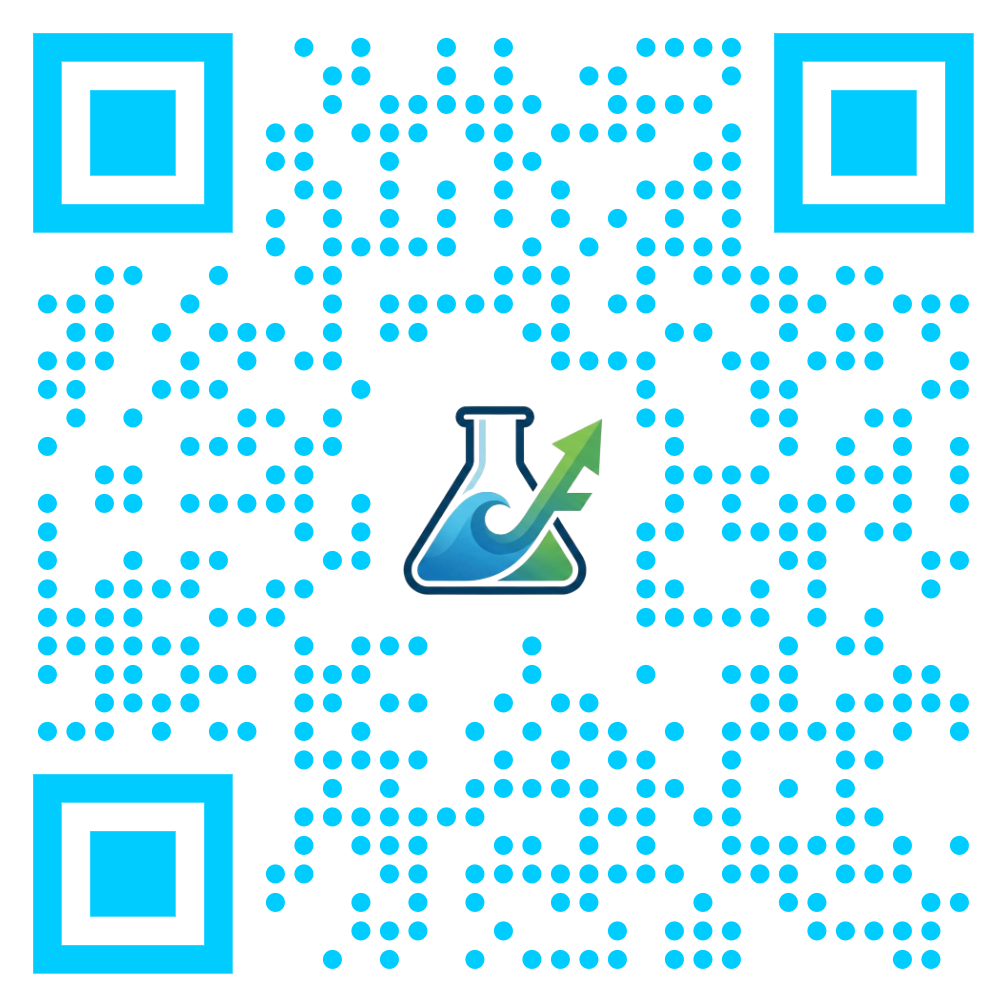
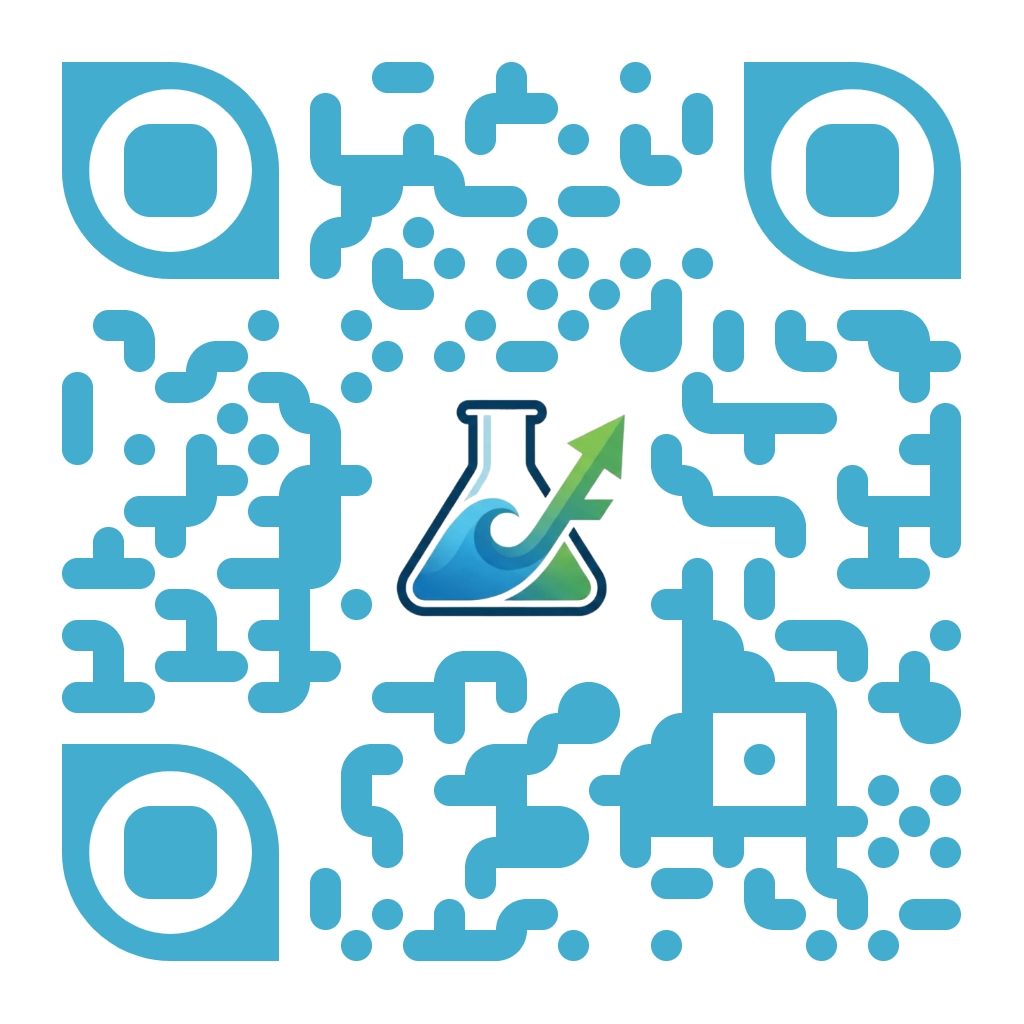
docs: update README for the live Render deployment
- refresh the live demo / API links (new Render URLs) and the QR code
- document the Postgres internal URL format for DATABASE_URL, with the
  password masked and a warning never to commit it
- fix ALLOWED_HOSTS in the env var table: bare hostnames, no https:// scheme
- update the repository file tree with the deployment files
  (render.yaml, build.sh, Procfile, .python-version), the
  ensure_demo_user management command and the new frontend files
- tech stack: PostgreSQL in production (SQLite locally) + Render row
- local setup: pip install -r requirements.txt and ensure_demo_user
- API reference: document /api/health/ and the root banner
- note that Render appends a random suffix to service names

diff --git a/README.md b/README.md
@@ -1,5 +1,5 @@
 # Chem Flow Monitor
-**[🔴 Live Demo](https://chem-flow-monitor.onrender.com/)** | **[📄 API Docs](https://chem-flow-backend.onrender.com/api/datasets/history/)** | **[📄 Project Documentation](https://docs.google.com/document/d/1sbKwdR0MgMHTLUGTTjjW1WPOu5JB55w-su5mencRrjU/edit?usp=sharing)**
+**[🔴 Live Demo](https://chem-flow-monitor-rues.onrender.com/)** | **[📄 API Docs](https://chem-flow-backend-lxih.onrender.com/api/datasets/history/)** | **[📄 Project Documentation](https://docs.google.com/document/d/1sbKwdR0MgMHTLUGTTjjW1WPOu5JB55w-su5mencRrjU/edit?usp=sharing)**
 
 **Username:** `demo`
 **Password:** `demo12345`
@@ -34,10 +34,11 @@ The application solves the problem of analyzing batch CSV exports from industria
 
 | Component | Technology | Description |
 | :--- | :--- | :--- |
-| **Backend** | Python, Django, DRF | REST API, Data Processing (Pandas), SQLite storage |
+| **Backend** | Python, Django, DRF | REST API, Data Processing (Pandas), PostgreSQL storage (SQLite locally) |
 | **Web Frontend** | React.js, Chart.js | Responsive web dashboard |
 | **Desktop Frontend** | Python, PyQt5, Matplotlib | Native desktop GUI |
 | **Data Processing** | Pandas | CSV parsing and statistical computation |
+| **Deployment** | Render.com | Blueprint (`render.yaml`): Django web service + React static site + Postgres |
 
 ##  Repository Structure
 
@@ -49,14 +50,19 @@ The application solves the problem of analyzing batch CSV exports from industria
 │   ├── config/                      # Django configuration
 │   │   ├── __init__.py
 │   │   ├── asgi.py                  # ASGI config
-│   │   ├── settings.py              # Django settings
+│   │   ├── settings.py              # Django settings (env driven)
 │   │   ├── urls.py                  # Root URL configuration
 │   │   └── wsgi.py                  # WSGI config
 │   ├── create_demo_user.py          # Script to create demo user
-│   ├── equipment/                  # Main Django app
+│   ├── equipment/                   # Main Django app
 │   │   ├── __init__.py
 │   │   ├── admin.py                 # Django admin configuration
 │   │   ├── apps.py                  # App configuration
+│   │   ├── management/              # Custom management commands
+│   │   │   ├── __init__.py
+│   │   │   └── commands/
+│   │   │       ├── __init__.py
+│   │   │       └── ensure_demo_user.py  # Create/repair the demo account
 │   │   ├── migrations/              # Database migrations
 │   │   │   ├── 0001_initial.py
 │   │   │   └── __init__.py
@@ -83,6 +89,7 @@ The application solves the problem of analyzing batch CSV exports from industria
 │   ├── package.json                 # Node.js dependencies
 │   ├── package-lock.json
 │   ├── public/                      # Static assets
+│   │   ├── _redirects               # SPA fallback rewrite
 │   │   ├── favicon.ico
 │   │   ├── index.html
 │   │   ├── logo192.png
@@ -96,7 +103,8 @@ The application solves the problem of analyzing batch CSV exports from industria
 │       ├── api.js                   # API integration
 │       ├── components/              # React components
 │       │   ├── Dashboard.js
-│       │   └── Login.js
+│       │   ├── Login.js
+│       │   └── Login.test.js
 │       ├── index.css
 │       ├── index.js
 │       ├── logo.svg
@@ -105,7 +113,11 @@ The application solves the problem of analyzing batch CSV exports from industria
 ├── sample_data_large.csv            # Large test dataset
 ├── sample_data_varied.csv           # Varied test dataset
 ├── sample_equipment_data.csv        # Test dataset
+├── build.sh                         # Render build script (install, migrate, seed)
+├── render.yaml                      # Render blueprint (API + static site + DB)
+├── Procfile                         # Process start command
 ├── requirements.txt                 # Backend dependencies
+├── .python-version                  # Pinned Python version for Render
 ├── LICENSE
 ├── .gitignore
 └── README.md
@@ -162,12 +174,13 @@ source .venv/bin/activate
 
 # Install dependencies
 python -m pip install --upgrade pip
-pip install Django==4.2.10 djangorestframework==3.14.0 pandas==2.2.0 reportlab==4.0.9 django-cors-headers==4.3.1 gunicorn --only-binary :all:
+pip install -r requirements.txt
 
 # Run migrations and setup database
 python3 backend/manage.py migrate
-python3 backend/manage.py createsuperuser --username demo --email demo@example.com
-# (Set password to 'demo12345' to match the guide below, or choose your own)
+python3 backend/manage.py ensure_demo_user
+# (Creates the 'demo' / 'demo12345' account used below; override with
+#  DEMO_USERNAME / DEMO_PASSWORD, or use createsuperuser for your own account)
 
 # Start the server
 python3 backend/manage.py runserver
@@ -191,8 +204,9 @@ pip install -r requirements.txt
 
 # Run migrations and setup database
 python backend/manage.py migrate
-python backend/manage.py createsuperuser --username demo --email demo@example.com
-# (Set password to 'demo12345' to match the guide below, or choose your own)
+python backend/manage.py ensure_demo_user
+# (Creates the 'demo' / 'demo12345' account used below; override with
+#  DEMO_USERNAME / DEMO_PASSWORD, or use createsuperuser for your own account)
 
 # Start the server
 python backend/manage.py runserver
@@ -304,9 +318,12 @@ Render creates:
 
 | Resource | Type | URL |
 | :--- | :--- | :--- |
-| `chem-flow-backend` | Web Service (Python) | `https://chem-flow-backend.onrender.com` |
-| `chem-flow-monitor` | Static Site (React) | `https://chem-flow-monitor.onrender.com` |
+| `chem-flow-backend` | Web Service (Python) | `https://chem-flow-backend-lxih.onrender.com` |
+| `chem-flow-monitor` | Static Site (React) | `https://chem-flow-monitor-rues.onrender.com` |
 | `chem-flow-db` | Render Postgres | internal connection string |
+
+> [!NOTE]
+> Render appends a random suffix (`-lxih`, `-rues`, …) when the requested name is already taken in your workspace — those are the suffixes of the live deployment. The `chem-flow-backend` / `chem-flow-monitor` names in `render.yaml` stay the same; the suffix only shows up in the public URL.
 
 > [!IMPORTANT]
 > The **Free Postgres plan expires 30 days after it is created**. Upgrade it to a paid plan inside the Render dashboard before the grace period ends, or the API loses its database.
@@ -339,6 +356,20 @@ What `build.sh` does: installs `requirements.txt` → `collectstatic` → `migra
 #### B3. Database
 
 Create a **Render Postgres** instance and copy its **Internal Database URL** into the backend service as `DATABASE_URL`.
+
+```
+postgresql://<user>:<password>@dpg-<instance-id>.<region>.aws.rendered.com:5432/<database>
+```
+
+For this deployment the instance is `chem-flow-db` with database `chem_flow` and user `chem_flow`, so the URL looks like:
+
+```
+postgresql://chem_flow:••••••••@dpg-xxxxxxxx.<region>.aws.rendered.com:5432/chem_flow
+```
+
+> [!WARNING]
+> The internal URL **contains the database password**. Copy it from the dashboard (*Databases → chem-flow-db → Connection → Internal Database URL*) and paste it into the service's environment variables — never commit it to this repository. The blueprint wires it up automatically (`fromDatabase`), so you only need it when you create the services by hand.
+
 If you skip the database, the backend falls back to SQLite, but on Render the file is wiped on every redeploy.
 
 ### Environment variables
@@ -350,9 +381,9 @@ If you skip the database, the backend falls back to SQLite, but on Render the fi
 | `SECRET_KEY` | Generate in the dashboard (`generateValue: true` in the blueprint) | ✅ |
 | `PYTHON_VERSION` | `3.12.13` — Django 4.2 / pandas 2.2 have no wheels for Render's default Python 3.14 | ✅ |
 | `DEBUG` | `False` | ✅ |
-| `DATABASE_URL` | Postgres internal URL (`postgresql://user:pass@host:5432/db`) | ✅ (prod) |
-| `ALLOWED_HOSTS` | `.onrender.com,chem-flow-backend.onrender.com` | ✅ |
-| `CORS_ALLOWED_ORIGINS` | `https://chem-flow-monitor.onrender.com,http://localhost:3000` | ✅ |
+| `DATABASE_URL` | Postgres **Internal Database URL** — `postgresql://chem_flow:<password>@dpg-<id>.<region>.aws.rendered.com:5432/chem_flow` | ✅ (prod) |
+| `ALLOWED_HOSTS` | `.onrender.com,chem-flow-backend-lxih.onrender.com` (hostnames only — no `https://`) | ✅ |
+| `CORS_ALLOWED_ORIGINS` | `https://chem-flow-monitor-rues.onrender.com,http://localhost:3000` | ✅ |
 | `DJANGO_SETTINGS_MODULE` | `config.settings` | optional |
 | `WEB_CONCURRENCY` | `1` on the free plan, `2`+ on a paid plan | optional |
 | `MEDIA_ROOT` | `/opt/data/media` (a persistent disk mount) | optional |
@@ -364,7 +395,7 @@ If you skip the database, the backend falls back to SQLite, but on Render the fi
 
 | Key | Value | Required |
 | :--- | :--- | :--- |
-| `REACT_APP_API_URL` | `https://chem-flow-backend.onrender.com` | ✅ |
+| `REACT_APP_API_URL` | `https://chem-flow-backend-lxih.onrender.com` | ✅ |
 | `NODE_VERSION` | `22.22.1` | optional |
 
 > [!NOTE]
@@ -379,7 +410,7 @@ If you skip the database, the backend falls back to SQLite, but on Render the fi
 
 ### Post-deploy checklist
 
-1. `curl https://chem-flow-backend.onrender.com/api/health/` → `{"status": "ok", ...}`
+1. `curl https://chem-flow-backend-lxih.onrender.com/api/health/` → `{"status": "ok", ...}`
 2. Open the frontend URL, log in with `demo` / `demo12345`.
 3. Upload `sample_equipment_data.csv` and generate the PDF report.
 4. If the browser reports CORS errors, add the frontend origin to `CORS_ALLOWED_ORIGINS` and redeploy the backend.
@@ -433,6 +464,8 @@ The backend exposes the following endpoints for the frontend clients:
 * `GET /api/datasets/<id>/` - Retrieve analytics for a specific dataset.
 * `GET /api/datasets/<id>/report/` - Download PDF report.
 * `GET /api/datasets/history/` - List last 5 uploads.
+* `GET /api/health/` - Liveness probe (used by the Render health check).
+* `GET /` - Service banner listing the available endpoints.
 
 ## ▲ Troubleshooting
 
@@ -445,7 +478,7 @@ The backend exposes the following endpoints for the frontend clients:
 * **Invisible password during initial setup:** Keep in mind that the password is invisible during initial setup (Due to TUI limitations), but it is still being set. *Tip: hold backspace to clear the password and then type it again.*
 * **Testing Application in Windows:** You can use the automated `winrun.ps1` script in PowerShell for a quick setup. If it fails, follow the manual setup.
 * **Incorrect Python Environment:** If you get "ModuleNotFoundError", ensure you are using the virtual environment. It is safer to use the explicit path: `.venv/bin/python3` (Linux/Mac OS) or `.venv\Scripts\python` (Windows) instead of just `python`.
-* **Login returns 400 ("Unable to log in with provided credentials"):** The API is up but the `demo` account is missing or its password differs in the deployed database — usually because the build ran `migrate` but never seeded the user, or the database was swapped after the build. The start command now runs `python backend/manage.py ensure_demo_user --noinput` on every boot, which creates the account and re-syncs the password; trigger a redeploy after adding it. You can also run that command from the Render Shell (`python backend/manage.py ensure_demo_user`). Override the credentials with `DEMO_USERNAME` / `DEMO_PASSWORD`.
+* **Login returns 400 ("Unable to log in with provided credentials"):** The API is up but the `demo` account is missing or its password differs in the deployed database — usually because the build ran `migrate` but never seeded the user, or the database was swapped after the build. The start command now runs `python backend/manage.py ensure_demo_user --noinput` on every boot, which creates the account and re-syncs the password; trigger a redeploy after adding it. On a paid plan you can also run it from the Render Shell (`python backend/manage.py ensure_demo_user`) — the free plan has no shell access, so use the start command there. Override the credentials with `DEMO_USERNAME` / `DEMO_PASSWORD`.
 * **Login returns 400 but the API works:** The frontend may still be pointing at an old backend. `REACT_APP_API_URL` is compiled into the bundle, so change it and **clear the build cache** on the static site.
 * **Bad Request (400) in Windows:** If you can't login with the demo credentials, it might be because the automation script created a new superuser with your system's specific environment. Try logging in with the username/password you manually set (if any) or check the script output for user creation status.
 
